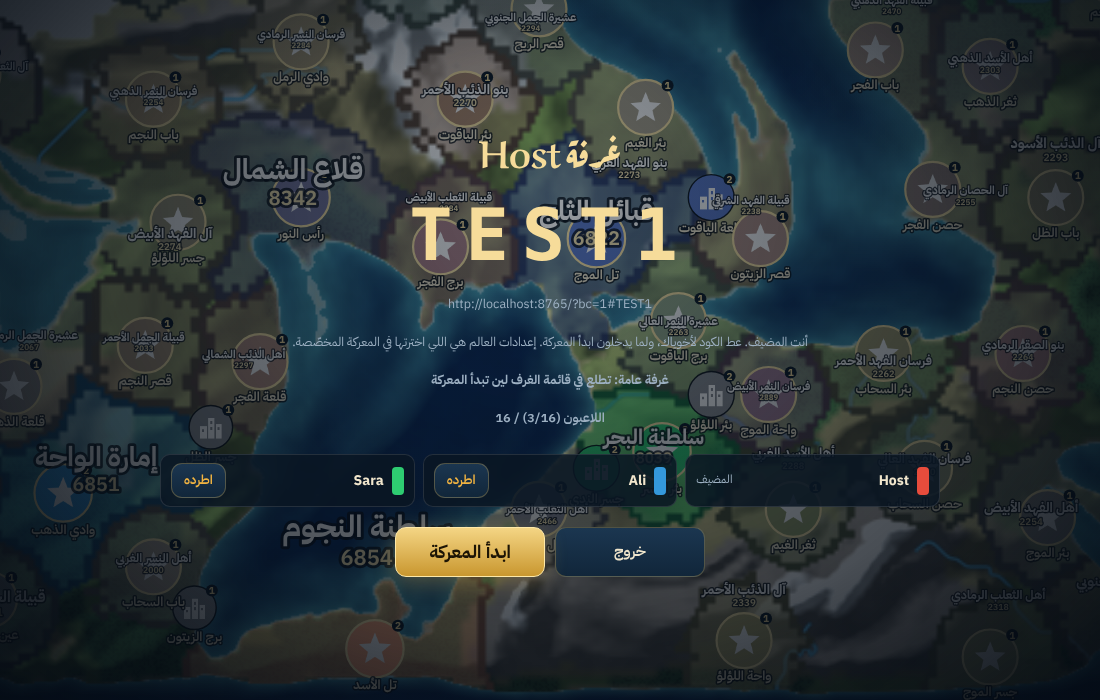
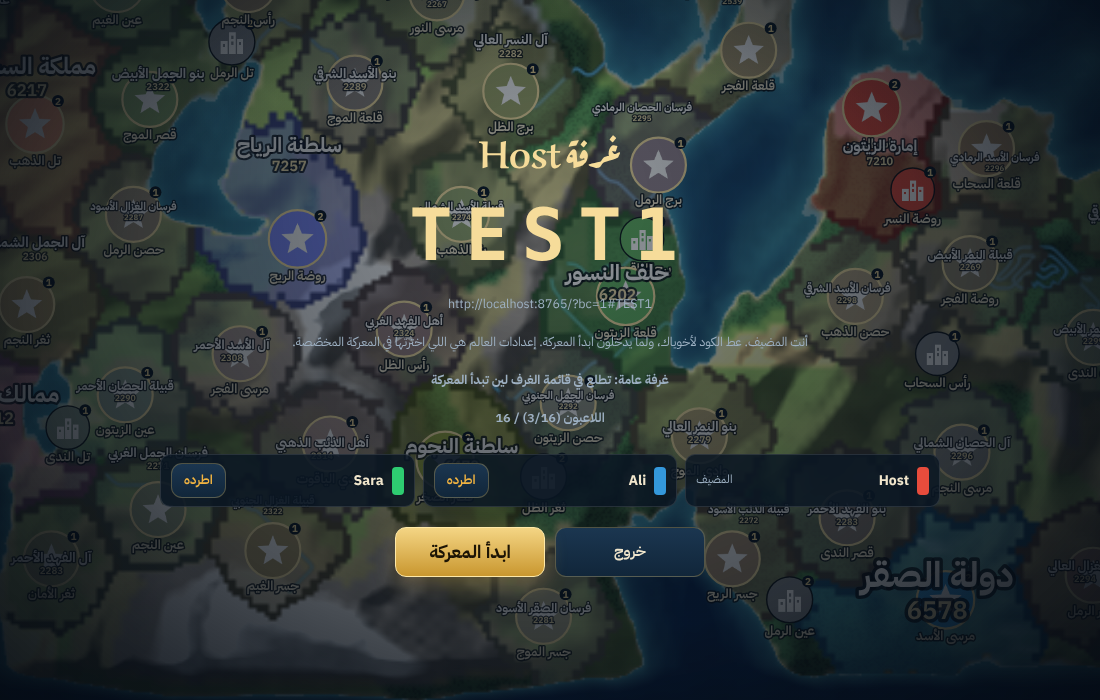
Tanks answer only fronts within 50 tiles; the rest keep guarding their border
Claude-Session: https://claude.ai/code/session_01DE77Q6PVtjTWn3qCBTcsws

diff --git a/dist/sijal-mobile.html b/dist/sijal-mobile.html
@@ -453,7 +453,7 @@ h3{font-size:13px;color:var(--dim);font-weight:600;margin-bottom:6px}
 </div>
 <script>
 window.SIJAL_MODE='mobile';(function(){"use strict";
-const BUILD_ID='36a765b1ef';
+const BUILD_ID='6f04b86503';
 // ── SIJAL · core: constants, utilities, shared data ──
 const TPS=10,SEASON_LEN=450;
 // terrain ids: 0 deep, 1 shallow, 2 plains, 3 forest, 4 desert, 5 hills, 6 mountain, 7 snow
@@ -1209,7 +1209,7 @@ function pocketPass(g){
 }
 // ── tank camps: each finished camp rolls out up to 5 tanks, one every 3 seconds. Tanks only ever drive over their own land.
 // At peace they patrol the border near where they are; in an offensive each tank takes its own spot along the front line ──
-const TANK_N=5;
+const TANK_N=5,TANK_R=50;
 // shortest walk over the owner's land from tile s to tile e (8 directions), capped so it stays cheap
 function ownPath(g,a,s,e,cap){
   const W=g.W,H=g.H,own=g.owner,prev=g.prev,q=g.q;if(s===e)return[s];prev.fill(-1);let qh=0,qt=0;prev[s]=s;q[qt++]=s;
@@ -1247,7 +1247,8 @@ function tickTanks(g){
   live.sort((p,q)=>p.id-q.id);const slot={};
   for(const T of live){const ti=Math.floor(T.y)*W+Math.floor(T.x),F=byA[T.a];
     // nearest offensive of this realm
-    let k=null,bd=1e18;if(F)for(const q of F){const fx=q.fx!=null?q.fx:q.ox,fy=q.fx!=null?q.fy:q.oy,d=(fx-T.x)**2+(fy-T.y)**2;if(d<bd){bd=d;k=q;}}
+    // only tanks within reach of a front answer it; the rest keep guarding their own stretch of border
+    let k=null,bd=TANK_R*TANK_R;if(F)for(const q of F){const fx=q.fx!=null?q.fx:q.ox,fy=q.fx!=null?q.fy:q.oy,d=(fx-T.x)**2+(fy-T.y)**2;if(d<=bd){bd=d;k=q;}}
     if(k){const key=k.id;slot[key]=(slot[key]||0)+1;T.slot=slot[key]-1;}
     const lost=own[ti]!==T.a;
     if(lost||now>=T.re||(k?T.k!==k.id:T.k)){

diff --git a/dist/sijal-pc.html b/dist/sijal-pc.html
@@ -453,7 +453,7 @@ h3{font-size:13px;color:var(--dim);font-weight:600;margin-bottom:6px}
 </div>
 <script>
 window.SIJAL_MODE='pc';(function(){"use strict";
-const BUILD_ID='36a765b1ef';
+const BUILD_ID='6f04b86503';
 // ── SIJAL · core: constants, utilities, shared data ──
 const TPS=10,SEASON_LEN=450;
 // terrain ids: 0 deep, 1 shallow, 2 plains, 3 forest, 4 desert, 5 hills, 6 mountain, 7 snow
@@ -1209,7 +1209,7 @@ function pocketPass(g){
 }
 // ── tank camps: each finished camp rolls out up to 5 tanks, one every 3 seconds. Tanks only ever drive over their own land.
 // At peace they patrol the border near where they are; in an offensive each tank takes its own spot along the front line ──
-const TANK_N=5;
+const TANK_N=5,TANK_R=50;
 // shortest walk over the owner's land from tile s to tile e (8 directions), capped so it stays cheap
 function ownPath(g,a,s,e,cap){
   const W=g.W,H=g.H,own=g.owner,prev=g.prev,q=g.q;if(s===e)return[s];prev.fill(-1);let qh=0,qt=0;prev[s]=s;q[qt++]=s;
@@ -1247,7 +1247,8 @@ function tickTanks(g){
   live.sort((p,q)=>p.id-q.id);const slot={};
   for(const T of live){const ti=Math.floor(T.y)*W+Math.floor(T.x),F=byA[T.a];
     // nearest offensive of this realm
-    let k=null,bd=1e18;if(F)for(const q of F){const fx=q.fx!=null?q.fx:q.ox,fy=q.fx!=null?q.fy:q.oy,d=(fx-T.x)**2+(fy-T.y)**2;if(d<bd){bd=d;k=q;}}
+    // only tanks within reach of a front answer it; the rest keep guarding their own stretch of border
+    let k=null,bd=TANK_R*TANK_R;if(F)for(const q of F){const fx=q.fx!=null?q.fx:q.ox,fy=q.fx!=null?q.fy:q.oy,d=(fx-T.x)**2+(fy-T.y)**2;if(d<=bd){bd=d;k=q;}}
     if(k){const key=k.id;slot[key]=(slot[key]||0)+1;T.slot=slot[key]-1;}
     const lost=own[ti]!==T.a;
     if(lost||now>=T.re||(k?T.k!==k.id:T.k)){

diff --git a/dist/sijal-artifact.html b/dist/sijal-artifact.html
@@ -443,7 +443,7 @@ h3{font-size:13px;color:var(--dim);font-weight:600;margin-bottom:6px}
 </div>
 <script>
 (function(){"use strict";
-const BUILD_ID='36a765b1ef';
+const BUILD_ID='6f04b86503';
 // ── SIJAL · core: constants, utilities, shared data ──
 const TPS=10,SEASON_LEN=450;
 // terrain ids: 0 deep, 1 shallow, 2 plains, 3 forest, 4 desert, 5 hills, 6 mountain, 7 snow
@@ -1199,7 +1199,7 @@ function pocketPass(g){
 }
 // ── tank camps: each finished camp rolls out up to 5 tanks, one every 3 seconds. Tanks only ever drive over their own land.
 // At peace they patrol the border near where they are; in an offensive each tank takes its own spot along the front line ──
-const TANK_N=5;
+const TANK_N=5,TANK_R=50;
 // shortest walk over the owner's land from tile s to tile e (8 directions), capped so it stays cheap
 function ownPath(g,a,s,e,cap){
   const W=g.W,H=g.H,own=g.owner,prev=g.prev,q=g.q;if(s===e)return[s];prev.fill(-1);let qh=0,qt=0;prev[s]=s;q[qt++]=s;
@@ -1237,7 +1237,8 @@ function tickTanks(g){
   live.sort((p,q)=>p.id-q.id);const slot={};
   for(const T of live){const ti=Math.floor(T.y)*W+Math.floor(T.x),F=byA[T.a];
     // nearest offensive of this realm
-    let k=null,bd=1e18;if(F)for(const q of F){const fx=q.fx!=null?q.fx:q.ox,fy=q.fx!=null?q.fy:q.oy,d=(fx-T.x)**2+(fy-T.y)**2;if(d<bd){bd=d;k=q;}}
+    // only tanks within reach of a front answer it; the rest keep guarding their own stretch of border
+    let k=null,bd=TANK_R*TANK_R;if(F)for(const q of F){const fx=q.fx!=null?q.fx:q.ox,fy=q.fx!=null?q.fy:q.oy,d=(fx-T.x)**2+(fy-T.y)**2;if(d<=bd){bd=d;k=q;}}
     if(k){const key=k.id;slot[key]=(slot[key]||0)+1;T.slot=slot[key]-1;}
     const lost=own[ti]!==T.a;
     if(lost||now>=T.re||(k?T.k!==k.id:T.k)){

diff --git a/dist/sijal.html b/dist/sijal.html
@@ -453,7 +453,7 @@ h3{font-size:13px;color:var(--dim);font-weight:600;margin-bottom:6px}
 </div>
 <script>
 (function(){"use strict";
-const BUILD_ID='36a765b1ef';
+const BUILD_ID='6f04b86503';
 // ── SIJAL · core: constants, utilities, shared data ──
 const TPS=10,SEASON_LEN=450;
 // terrain ids: 0 deep, 1 shallow, 2 plains, 3 forest, 4 desert, 5 hills, 6 mountain, 7 snow
@@ -1209,7 +1209,7 @@ function pocketPass(g){
 }
 // ── tank camps: each finished camp rolls out up to 5 tanks, one every 3 seconds. Tanks only ever drive over their own land.
 // At peace they patrol the border near where they are; in an offensive each tank takes its own spot along the front line ──
-const TANK_N=5;
+const TANK_N=5,TANK_R=50;
 // shortest walk over the owner's land from tile s to tile e (8 directions), capped so it stays cheap
 function ownPath(g,a,s,e,cap){
   const W=g.W,H=g.H,own=g.owner,prev=g.prev,q=g.q;if(s===e)return[s];prev.fill(-1);let qh=0,qt=0;prev[s]=s;q[qt++]=s;
@@ -1247,7 +1247,8 @@ function tickTanks(g){
   live.sort((p,q)=>p.id-q.id);const slot={};
   for(const T of live){const ti=Math.floor(T.y)*W+Math.floor(T.x),F=byA[T.a];
     // nearest offensive of this realm
-    let k=null,bd=1e18;if(F)for(const q of F){const fx=q.fx!=null?q.fx:q.ox,fy=q.fx!=null?q.fy:q.oy,d=(fx-T.x)**2+(fy-T.y)**2;if(d<bd){bd=d;k=q;}}
+    // only tanks within reach of a front answer it; the rest keep guarding their own stretch of border
+    let k=null,bd=TANK_R*TANK_R;if(F)for(const q of F){const fx=q.fx!=null?q.fx:q.ox,fy=q.fx!=null?q.fy:q.oy,d=(fx-T.x)**2+(fy-T.y)**2;if(d<=bd){bd=d;k=q;}}
     if(k){const key=k.id;slot[key]=(slot[key]||0)+1;T.slot=slot[key]-1;}
     const lost=own[ti]!==T.a;
     if(lost||now>=T.re||(k?T.k!==k.id:T.k)){

diff --git a/dist/site/index.html b/dist/site/index.html
@@ -466,7 +466,7 @@ h3{font-size:13px;color:var(--dim);font-weight:600;margin-bottom:6px}
 </div>
 <script>
 (function(){"use strict";
-const BUILD_ID='36a765b1ef';
+const BUILD_ID='6f04b86503';
 // ── SIJAL · core: constants, utilities, shared data ──
 const TPS=10,SEASON_LEN=450;
 // terrain ids: 0 deep, 1 shallow, 2 plains, 3 forest, 4 desert, 5 hills, 6 mountain, 7 snow
@@ -1222,7 +1222,7 @@ function pocketPass(g){
 }
 // ── tank camps: each finished camp rolls out up to 5 tanks, one every 3 seconds. Tanks only ever drive over their own land.
 // At peace they patrol the border near where they are; in an offensive each tank takes its own spot along the front line ──
-const TANK_N=5;
+const TANK_N=5,TANK_R=50;
 // shortest walk over the owner's land from tile s to tile e (8 directions), capped so it stays cheap
 function ownPath(g,a,s,e,cap){
   const W=g.W,H=g.H,own=g.owner,prev=g.prev,q=g.q;if(s===e)return[s];prev.fill(-1);let qh=0,qt=0;prev[s]=s;q[qt++]=s;
@@ -1260,7 +1260,8 @@ function tickTanks(g){
   live.sort((p,q)=>p.id-q.id);const slot={};
   for(const T of live){const ti=Math.floor(T.y)*W+Math.floor(T.x),F=byA[T.a];
     // nearest offensive of this realm
-    let k=null,bd=1e18;if(F)for(const q of F){const fx=q.fx!=null?q.fx:q.ox,fy=q.fx!=null?q.fy:q.oy,d=(fx-T.x)**2+(fy-T.y)**2;if(d<bd){bd=d;k=q;}}
+    // only tanks within reach of a front answer it; the rest keep guarding their own stretch of border
+    let k=null,bd=TANK_R*TANK_R;if(F)for(const q of F){const fx=q.fx!=null?q.fx:q.ox,fy=q.fx!=null?q.fy:q.oy,d=(fx-T.x)**2+(fy-T.y)**2;if(d<=bd){bd=d;k=q;}}
     if(k){const key=k.id;slot[key]=(slot[key]||0)+1;T.slot=slot[key]-1;}
     const lost=own[ti]!==T.a;
     if(lost||now>=T.re||(k?T.k!==k.id:T.k)){

diff --git a/src/game.js b/src/game.js
@@ -601,7 +601,7 @@ function pocketPass(g){
 }
 // ── tank camps: each finished camp rolls out up to 5 tanks, one every 3 seconds. Tanks only ever drive over their own land.
 // At peace they patrol the border near where they are; in an offensive each tank takes its own spot along the front line ──
-const TANK_N=5;
+const TANK_N=5,TANK_R=50;
 // shortest walk over the owner's land from tile s to tile e (8 directions), capped so it stays cheap
 function ownPath(g,a,s,e,cap){
   const W=g.W,H=g.H,own=g.owner,prev=g.prev,q=g.q;if(s===e)return[s];prev.fill(-1);let qh=0,qt=0;prev[s]=s;q[qt++]=s;
@@ -639,7 +639,8 @@ function tickTanks(g){
   live.sort((p,q)=>p.id-q.id);const slot={};
   for(const T of live){const ti=Math.floor(T.y)*W+Math.floor(T.x),F=byA[T.a];
     // nearest offensive of this realm
-    let k=null,bd=1e18;if(F)for(const q of F){const fx=q.fx!=null?q.fx:q.ox,fy=q.fx!=null?q.fy:q.oy,d=(fx-T.x)**2+(fy-T.y)**2;if(d<bd){bd=d;k=q;}}
+    // only tanks within reach of a front answer it; the rest keep guarding their own stretch of border
+    let k=null,bd=TANK_R*TANK_R;if(F)for(const q of F){const fx=q.fx!=null?q.fx:q.ox,fy=q.fx!=null?q.fy:q.oy,d=(fx-T.x)**2+(fy-T.y)**2;if(d<=bd){bd=d;k=q;}}
     if(k){const key=k.id;slot[key]=(slot[key]||0)+1;T.slot=slot[key]-1;}
     const lost=own[ti]!==T.a;
     if(lost||now>=T.re||(k?T.k!==k.id:T.k)){
